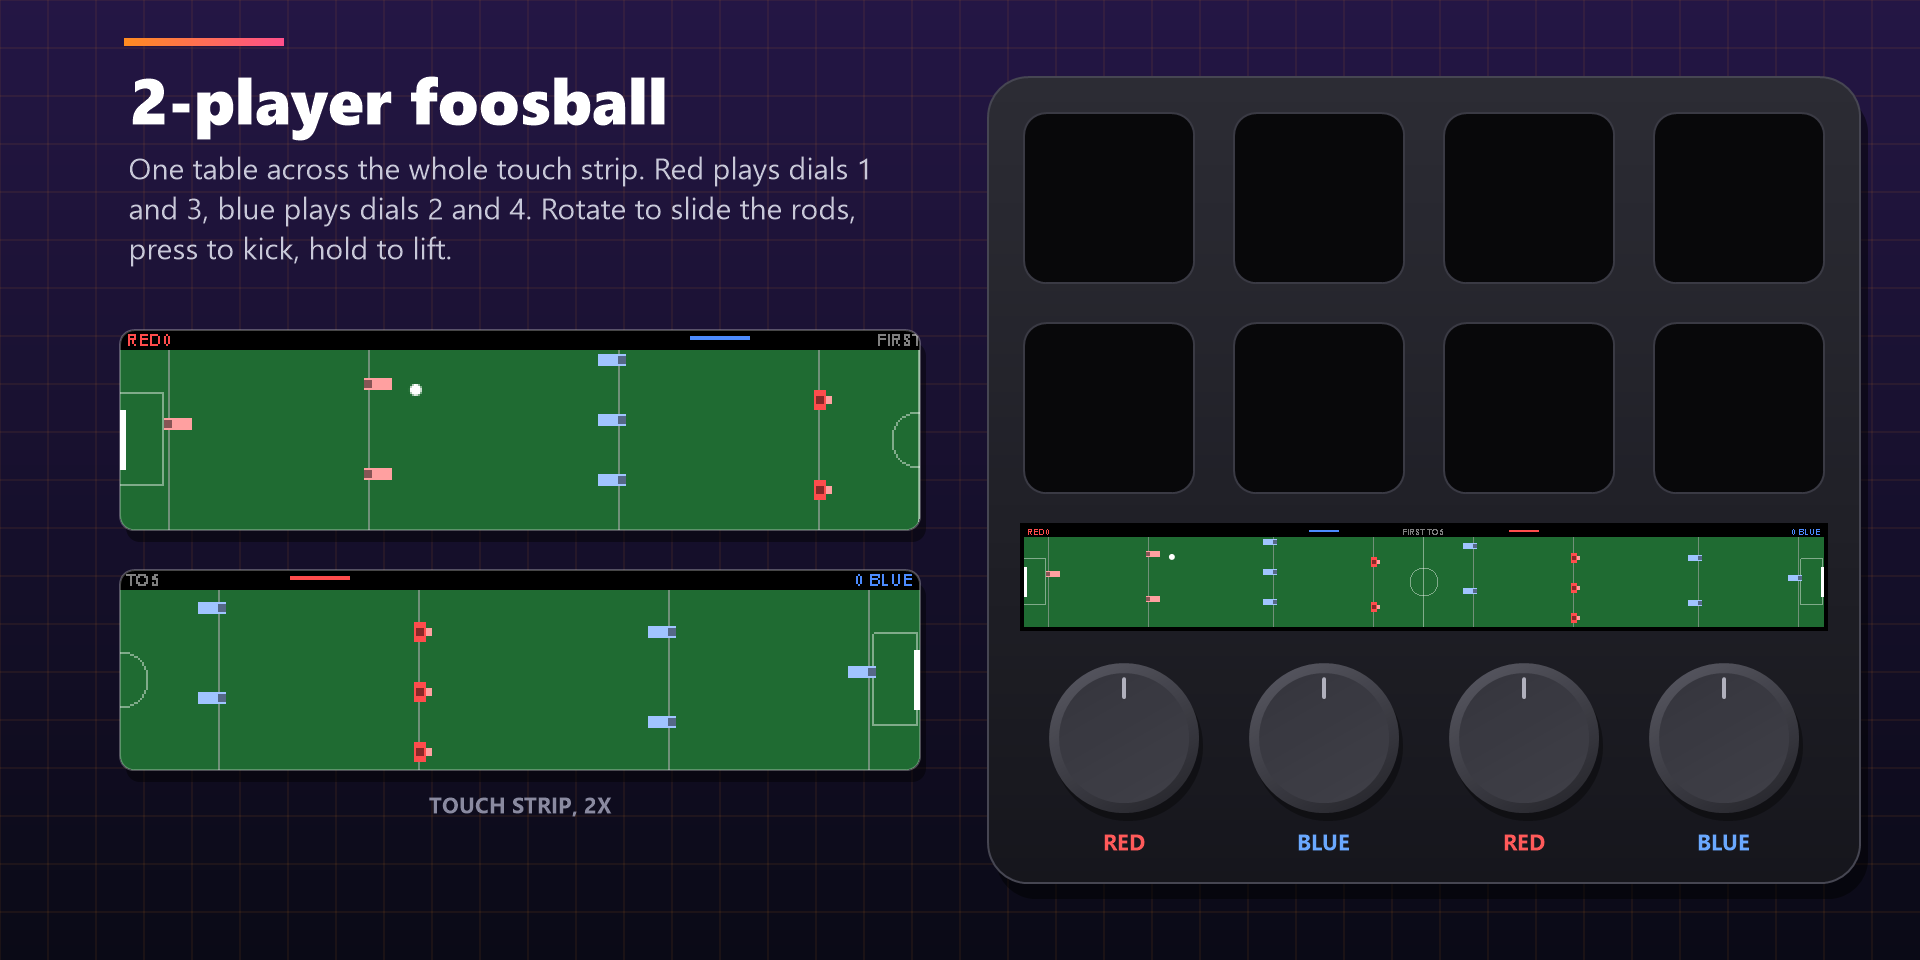
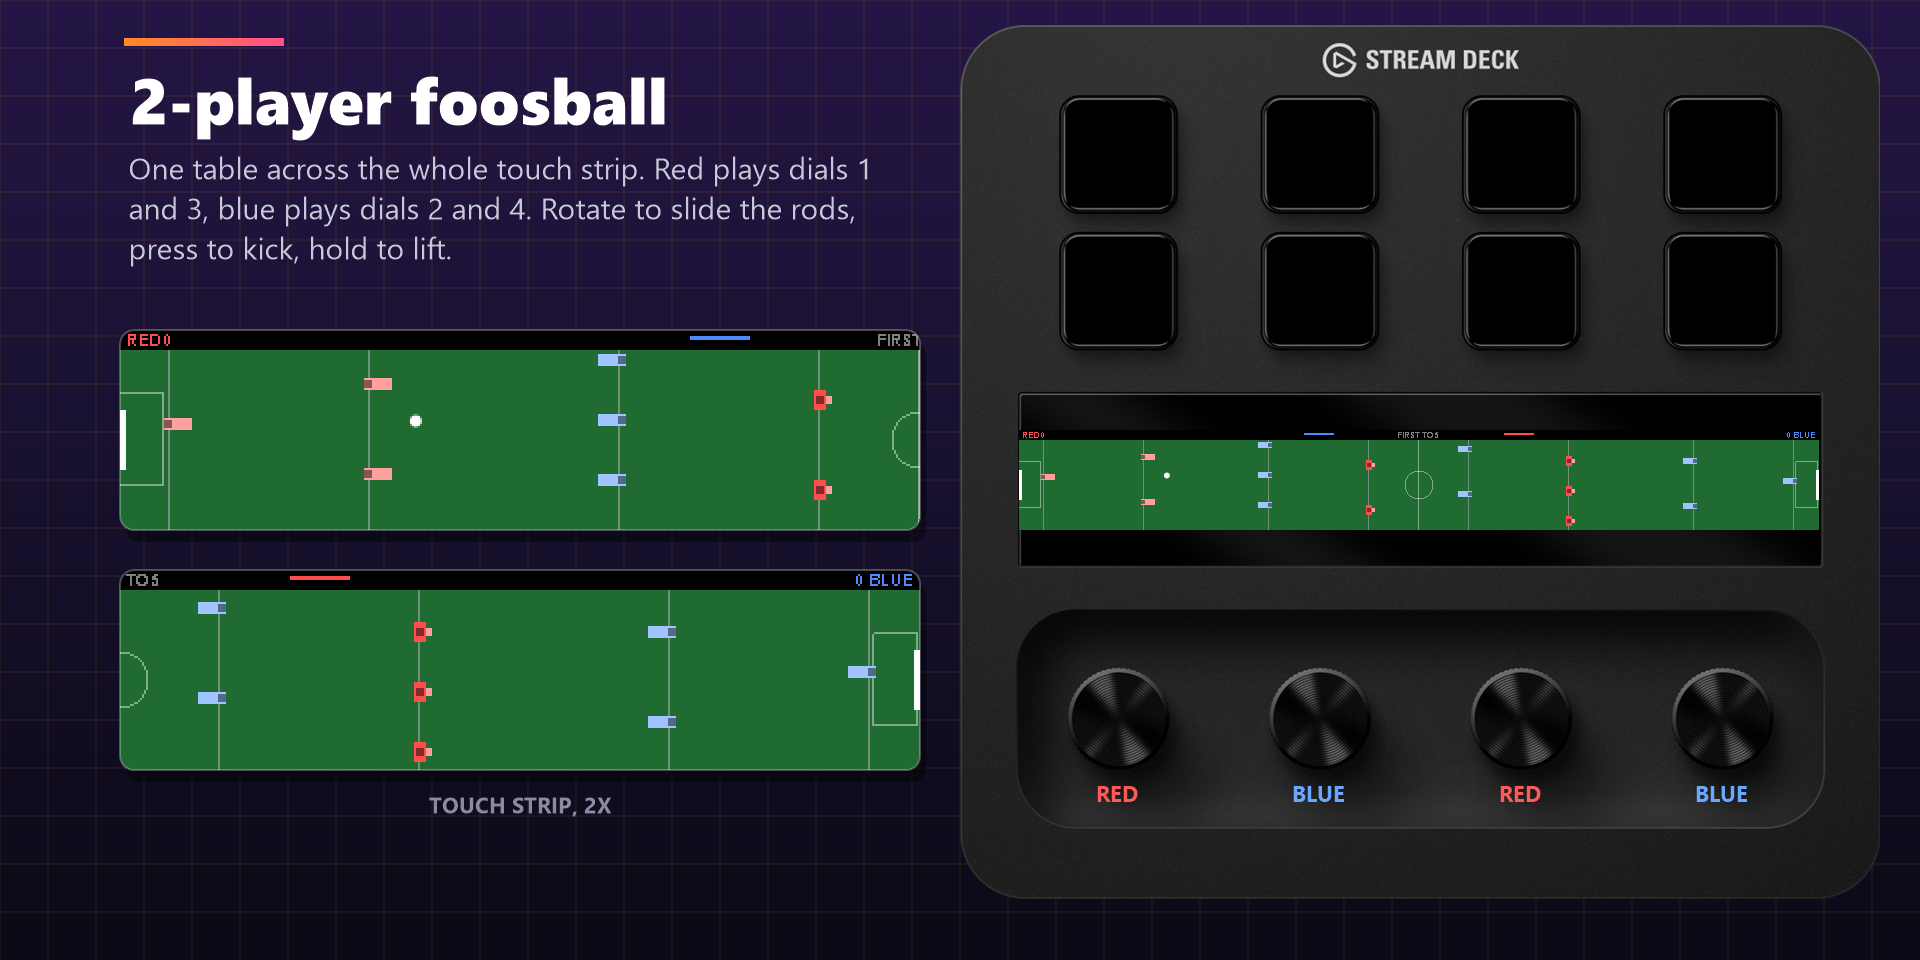
Marketplace: build the gallery on Elgato's official Stream Deck+ render
Review rejected the hand-drawn device: product media must depict Elgato hardware with official resources. The composer now loads the Stream Deck+ render exported from Elgato's Stream Deck Templates (tools/shots/stream-deck-plus.png, gitignored as Elgato's asset) and only places game screens on its keys and touch strip, with the strip at its native 800 x 100. Release notes and the listing explain the change.

Changed region(s): [[0.5, 0.0, 1.0, 0.6875], [0.5, 0.6875, 0.9688, 0.9375]]

diff --git a/tools/shots/Compose.cs b/tools/shots/Compose.cs
@@ -102,80 +102,68 @@ namespace MiniGame
             g.PixelOffsetMode = po;
         }
 
-        static void Dial(Graphics g, float cx, float cy, float r)
-        {
-            using (var sh = new SolidBrush(Color.FromArgb(90, 0, 0, 0))) g.FillEllipse(sh, cx - r + 4, cy - r + 8, r * 2, r * 2);
-            using (var b = new LinearGradientBrush(new RectangleF(cx - r, cy - r, r * 2, r * 2), Color.FromArgb(0x5A, 0x5A, 0x64), Color.FromArgb(0x22, 0x22, 0x28), 60f))
-                g.FillEllipse(b, cx - r, cy - r, r * 2, r * 2);
-            using (var b = new LinearGradientBrush(new RectangleF(cx - r, cy - r, r * 2, r * 2), Color.FromArgb(0x34, 0x34, 0x3C), Color.FromArgb(0x40, 0x40, 0x48), 60f))
-                g.FillEllipse(b, cx - r + 10, cy - r + 10, r * 2 - 20, r * 2 - 20);
-            using (var p = new Pen(Color.FromArgb(0xB0, 0xB0, 0xBC), 4) { StartCap = LineCap.Round, EndCap = LineCap.Round })
-                g.DrawLine(p, cx, cy - r + 16, cx, cy - r + 34);
-        }
+        // 官方的 Stream Deck+ 正面圖（Figma 的 Stream Deck Templates 匯出，1024x972），版權是 Elgato 的，不放進 git
+        // 以下座標都是量原圖得來的
+        const string DevFile = "stream-deck-plus.png";
+        const float SrcW = 1024, SrcH = 972;
+        static readonly float[] SrcKeyX = { 117, 341, 565, 789 }, SrcKeyY = { 84, 236 };
+        const float SrcKey = 118, SrcKeyR = 12;
+        const float SrcStripX = 66, SrcStripY = 410, SrcStripW = 890, SrcStripH = 192;
+        static readonly float[] SrcDialX = { 175, 400, 624, 848 };
+        const float SrcDialY = 771, SrcDialR = 56;
 
-        // 完整的 Stream Deck+，1:1 比例（觸控條 800x100）：上面 4x2 顆按鍵、中間觸控條、下面四顆旋鈕
-        const float Key = 170, KeyGap = 40, Bez = 36, StripW = 800, StripH = 100, DialR = 75;
-        const float DevW = StripW + 2 * Bez;                               // 872
-        const float KeysH = 2 * Key + KeyGap;                              // 380
-        const float DevH = Bez + KeysH + 34 + StripH + 36 + 2 * DialR + 70; // 806
+        // 縮放到觸控條剛好 800px 寬，遊戲畫面 1:1 不失真
+        const float DevS = 800 / SrcStripW;
+        const float DevW = SrcW * DevS, DevH = SrcH * DevS; // 920 x 874
 
-        // keys：4x2 顆按鍵的畫面，每顆 144x144，可為 null（按鍵全黑）
+        static Bitmap DevImg;
+
+        // keys：4x2 顆按鍵的畫面，每顆 144x144，可為 null（按鍵保持原圖的黑色）
         static void Device(Graphics g, float x, float y, Image strip, Image keys = null, string[] labels = null, Color[] colors = null)
         {
-            using (var body = Round(new RectangleF(x, y, DevW, DevH), 40))
+            if (DevImg == null)
             {
-                using (var sh = new SolidBrush(Color.FromArgb(120, 0, 0, 0)))
-                using (var shp = Round(new RectangleF(x + 8, y + 16, DevW, DevH), 40))
-                    g.FillPath(sh, shp);
-                using (var b = new LinearGradientBrush(new RectangleF(x, y, DevW, DevH), Color.FromArgb(0x2C, 0x2C, 0x34), Color.FromArgb(0x16, 0x16, 0x1C), 90f))
-                    g.FillPath(b, body);
-                using (var p = new Pen(Color.FromArgb(0x46, 0x46, 0x52), 2)) g.DrawPath(p, body);
+                string path = Path.Combine(Root, "tools", "shots", DevFile);
+                if (!File.Exists(path))
+                    throw new FileNotFoundException("Export the Stream Deck+ from Elgato's Figma Stream Deck Templates as PNG and save it here", path);
+                DevImg = new Bitmap(path);
             }
+            g.InterpolationMode = InterpolationMode.HighQualityBicubic;
+            g.DrawImage(DevImg, x, y, DevW, DevH);
 
             // 按鍵
-            for (int r = 0; r < 2; r++)
-                for (int c = 0; c < 4; c++)
-                {
-                    float kx = x + Bez + c * (Key + KeyGap), ky = y + Bez + r * (Key + KeyGap);
-                    using (var path = Round(new RectangleF(kx, ky, Key, Key), 22))
-                    {
-                        using (var b = new SolidBrush(Color.FromArgb(0x08, 0x08, 0x0A))) g.FillPath(b, path);
-                        if (keys != null)
+            if (keys != null)
+                for (int r = 0; r < 2; r++)
+                    for (int c = 0; c < 4; c++)
+                        using (var path = Round(new RectangleF(x + SrcKeyX[c] * DevS, y + SrcKeyY[r] * DevS, SrcKey * DevS, SrcKey * DevS), SrcKeyR * DevS))
                         {
                             var st = g.Save();
                             g.SetClip(path);
                             g.InterpolationMode = InterpolationMode.HighQualityBicubic;
-                            g.DrawImage(keys, new RectangleF(kx, ky, Key, Key), new RectangleF(c * 144, r * 144, 144, 144), GraphicsUnit.Pixel);
+                            g.DrawImage(keys, path.GetBounds(), new RectangleF(c * 144, r * 144, 144, 144), GraphicsUnit.Pixel);
                             g.Restore(st);
                         }
-                        using (var p = new Pen(Color.FromArgb(0x3A, 0x3A, 0x44), 2)) g.DrawPath(p, path);
-                    }
-                }
 
-            // 觸控條
-            float sx = x + Bez, sy = y + Bez + KeysH + 34;
-            g.FillRectangle(Brushes.Black, sx - 4, sy - 4, StripW + 8, StripH + 8);
-            Pixel(g, strip, sx, sy, StripW, StripH);
+            // 觸控條：800x100 的畫面放在玻璃的正中間
+            float sx = x + SrcStripX * DevS;
+            float sy = y + (SrcStripY + SrcStripH / 2) * DevS - 50;
+            Pixel(g, strip, sx, sy, 800, 100);
 
-            // 旋鈕
-            float cy = sy + StripH + 36 + DialR;
-            for (int i = 0; i < 4; i++)
-            {
-                float cx = sx + 100 + i * 200;
-                Dial(g, cx, cy, DialR);
-                if (labels != null && labels[i] != null)
+            // 旋鈕下方的標籤
+            if (labels != null)
+                for (int i = 0; i < 4; i++)
                 {
+                    if (labels[i] == null) continue;
                     Color c = colors != null ? colors[i] : Color.White;
                     using (var f = F(22, FontStyle.Bold))
                     using (var b = new SolidBrush(c))
                     using (var fmt = new StringFormat { Alignment = StringAlignment.Center })
-                        g.DrawString(labels[i], f, b, cx, cy + DialR + 14, fmt);
+                        g.DrawString(labels[i], f, b, x + SrcDialX[i] * DevS, y + (SrcDialY + SrcDialR) * DevS + 10, fmt);
                 }
-            }
         }
 
         // 右邊放裝置，左邊放標題和 2 倍大的觸控條特寫
-        const float DevX = W - 60 - DevW, DevY = (H - DevH) / 2, LeftW = 800;
+        const float DevX = W - 40 - DevW, DevY = (H - DevH - 36) / 2, LeftW = 800;
 
         static void Card(Graphics g, Image img, float x, float y, float w, float h, float rad = 14)
         {
@@ -254,7 +242,7 @@ namespace MiniGame
                 using (var b = Crop(race, 400, 400)) Card(g, b, 120, 570, 800, 200);
                 Caption(g, "TOUCH STRIP, 2X", 120, 790, 800);
                 Device(g, DevX, DevY, race, map, new[] { "P1", "P2", "P3", "P4" }, RacerConst.PlayerColors);
-                Caption(g, "RACER MAP ON THE KEYS: LIVE POSITIONS AND RANKING", DevX, DevY + DevH + 22, DevW);
+                Caption(g, "RACER MAP ON THE KEYS: LIVE POSITIONS AND RANKING", DevX, DevY + DevH + 4, DevW);
             }
             End(g, bmp, "gallery-1-racer-4p");
         }
@@ -294,9 +282,9 @@ namespace MiniGame
                 }
                 using (var br = Img("breakout")) Card(g, br, 120, 330, 400, 200);
                 using (var sn = Img("snake")) Card(g, sn, 120, 570, 400, 200);
-                using (var st = Img("stage_1")) Card(g, st, 560, 330, 400, 200);
-                using (var st = Img("stage_4")) Card(g, st, 560, 570, 400, 200);
-                Caption(g, "TOUCH STRIP, 2X", 120, 790, 840);
+                using (var st = Img("stage_1")) Card(g, st, 540, 330, 400, 200);
+                using (var st = Img("stage_4")) Card(g, st, 540, 570, 400, 200);
+                Caption(g, "TOUCH STRIP, 2X", 120, 790, 820);
                 Device(g, DevX, DevY, strip, null, new[] { "Breakout", "Snake", "Sunset Racer", "Sunset Racer" }, new[] { Color.White, Color.White, Color.White, Color.White });
             }
             End(g, bmp, "gallery-3-classics");

diff --git a/marketplace/listing.md b/marketplace/listing.md
@@ -28,7 +28,7 @@ Code and text written with AI assistance (Claude). All graphics are drawn by the
 
 ## Images
 
-All images are rendered by `tools/shots` from the real game code. The device in the gallery is a Stream Deck+ at its true layout: 8 keys, the 800 x 100 touch strip, 4 dials.
+All images are rendered by `tools/shots` from the real game code. The device in the gallery is Elgato's official Stream Deck+ render, exported from the Stream Deck Templates on Figma to `tools/shots/stream-deck-plus.png` (not in git, as it is Elgato's asset). The game screens are composited onto its keys and touch strip.
 
 | File | Use |
 |---|---|
@@ -50,7 +50,7 @@ Included
 
 Requires Stream Deck+ and Stream Deck 7.1 or later on Windows 10 or macOS 12 or later.
 
-Resubmission: same plugin file and version (1.0.0.0). The description now covers every action, setup tips and requirements, and the gallery images were redone to show the Stream Deck+ accurately (8 keys, touch strip, 4 dials) with current in-game text.
+Resubmission: same plugin file and version (1.0.0.0). Product media now uses Elgato's official Stream Deck+ render (from the Stream Deck Templates) as the base for every device shown in the gallery. The device itself is unchanged; only real in-game screens are placed on its keys and touch strip, at their native size. The description covers every action, setup tips and requirements.
 
 ## Submission notes
 
